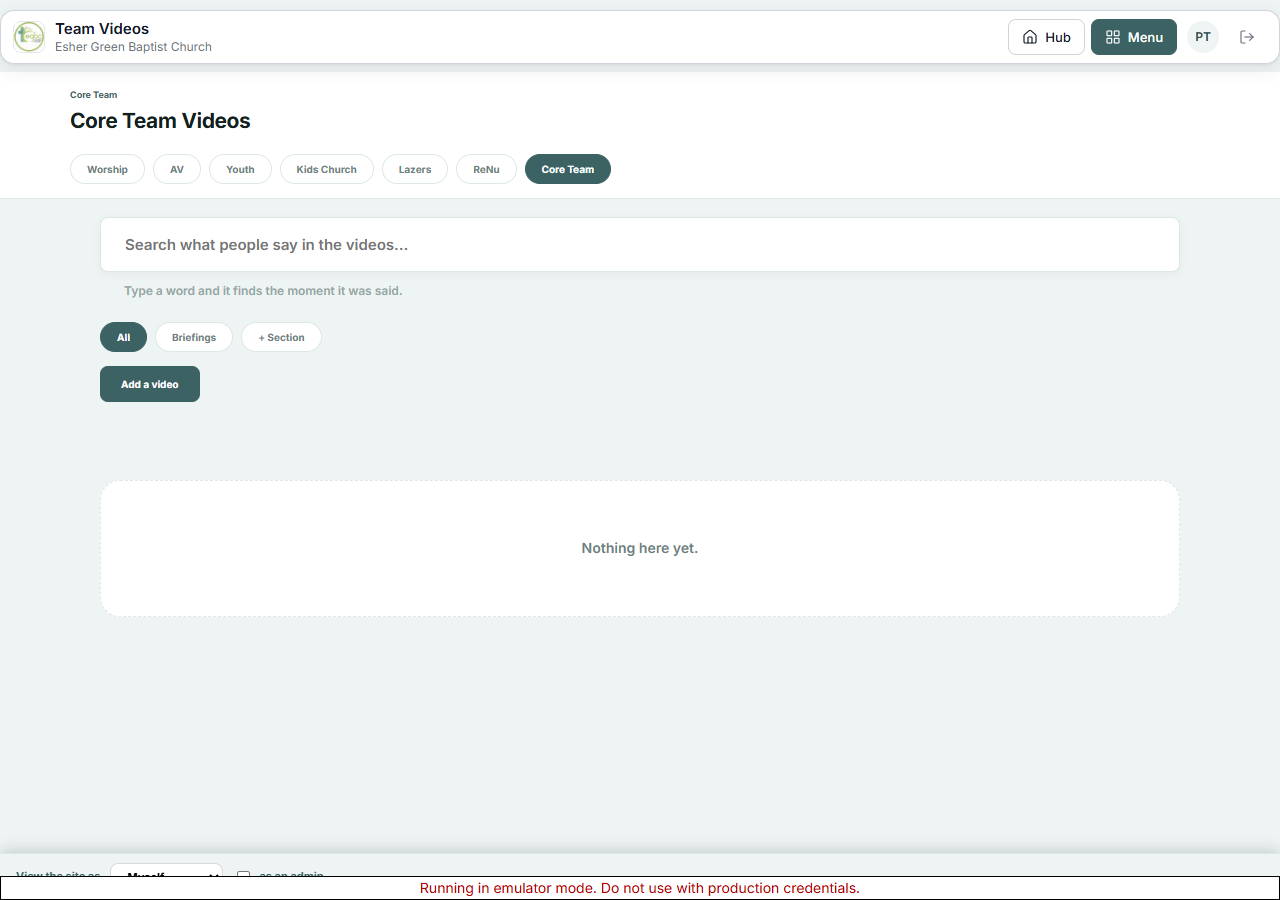
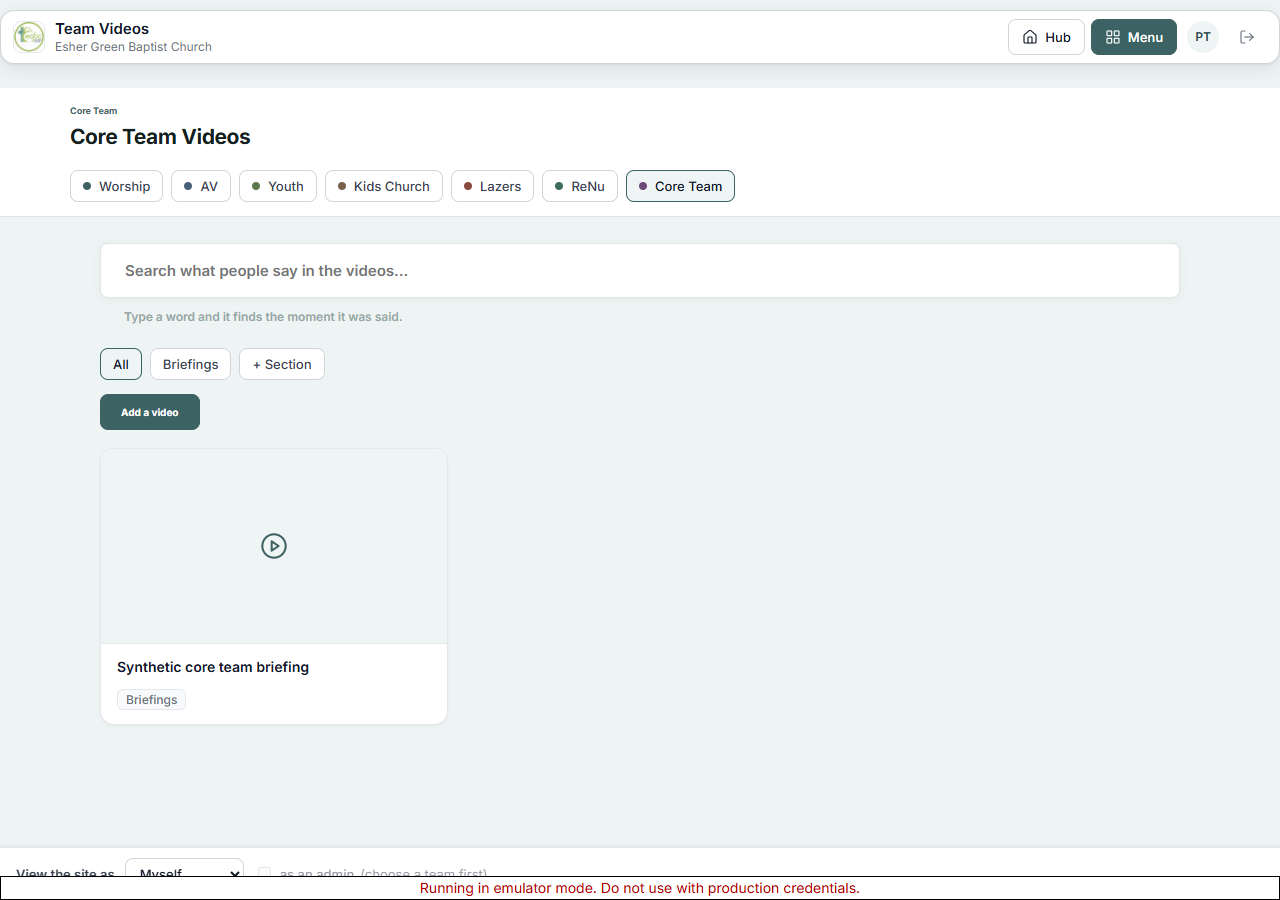
A2 (R-006): cards and lists to the card spec - three of the seven
resources.html, videos.html and addressbook.html rebuilt to DESIGN.md.
Four Group 1 pages still to do: view-only-rota, Planner,
SundayServicePlanner and CoreTeamApp. A2 is NOT finished.

Cards (resources, videos): white, 1px #e5e7eb, 14px radius, the small
shadow; a 36px tinted icon badge, the name at 14px/600 in ink, one muted
line, a divider, then the actions - a bordered button, ghost text buttons,
delete in the danger colour. The lift-on-hover and the 800-weight titles
went: a card should be quiet until you are over it, and 800 is not in the
type scale.

Lists (addressbook): the row is a 36px initials box, the name at 14px/600 in
ink, the email as the one muted line, and the quiet #f3f4f6 hover. It is a
table of people rather than a grid, which is right for that page - the spec
applies to the row, not the container.

Emoji out while in there: the file-type icons in resources became Lucide
names, and the play glyph in a video thumbnail became circle-play. The video
team tabs lost their solid team-colour fill for the brand tint and an 8px
dot, the same as the resources tabs.

Nothing lost: resources still saves a link, address book still adds and
edits a person, videos still adds a video, and Planner and CoreTeamApp still
save an assignment - all read back from Firestore, 3/3 and 3/3.

Two seeding traps worth knowing, both mine and both the same shape as the
one in Step V: Firestore orderBy skips documents that lack the field, so
[…]

diff --git a/v2/videos.html b/v2/videos.html
@@ -46,10 +46,17 @@
 
   /* ---- team strip ---- */
   .teams{display:flex;gap:8px;padding:0 0 14px;flex-wrap:wrap}
-  .tchip{font-size:10px;font-weight:900;letter-spacing:.08em;text-transform:uppercase;padding:8px 16px;
-         border-radius:999px;border:1px solid var(--line);background:var(--surface);color:var(--muted);
-         cursor:pointer;font-family:inherit;transition:.12s}
-  .tchip.on{background:var(--brand);color:#fff;border-color:var(--brand)}
+  /* A tab is a control, not a label shouting at you: 13px, sentence case,
+     8px corners. Selected is the brand tint with ink text - a solid team
+     colour across a tab is the loudest thing on the page and says nothing
+     the dot beside the name does not. */
+  .tchip{display:inline-flex;align-items:center;gap:8px;height:32px;padding:0 12px;
+         font-size:13px;font-weight:500;letter-spacing:0;text-transform:none;
+         border-radius:8px;border:1px solid #d1d5db;background:#fff;color:#374151;
+         cursor:pointer;font-family:inherit;transition:background .12s,border-color .12s}
+  .tchip:hover{background:#f3f4f6}
+  .tchip.on{background:#eef5f4;color:#111827;border-color:#3d6263}
+  .tchip .dot{width:8px;height:8px;border-radius:9999px;flex:none}
 
   /* ---- search ---- */
   .search{margin:26px 0 22px}
@@ -61,18 +68,23 @@
 
   /* ---- grid ---- */
   .grid{display:grid;grid-template-columns:repeat(auto-fill,minmax(270px,1fr));gap:18px;padding-bottom:60px}
-  .card{background:var(--surface);border:1px solid var(--line);border-radius:var(--r-lg);overflow:hidden;
-        cursor:pointer;transition:.12s;display:flex;flex-direction:column;text-align:left;
-        font-family:inherit;padding:0;color:inherit}
-  .card:hover{border-color:var(--brand);box-shadow:var(--sh-lg);transform:translateY(-2px)}
-  .card:focus-visible{outline:2px solid var(--brand);outline-offset:2px}
-  .thumb{aspect-ratio:16/9;background:var(--surface-2);display:flex;align-items:center;justify-content:center;
-         font-size:32px;color:var(--faint);border-bottom:1px solid var(--line)}
-  .cbody{padding:16px 18px;display:flex;flex-direction:column;gap:7px;flex:1}
-  .cbody .t{font-size:14.5px;font-weight:800;color:var(--ink);line-height:1.35;letter-spacing:-.01em}
-  .cmeta{display:flex;gap:7px;align-items:center;flex-wrap:wrap;margin-top:auto;padding-top:4px}
-  .pill{font-size:8.5px;font-weight:900;letter-spacing:.1em;text-transform:uppercase;padding:3px 9px;
-        border-radius:999px;border:1px solid var(--line);color:var(--muted);background:var(--surface-2)}
+  /* DESIGN.md: white card, 1px line, 14px radius, the small shadow. The
+     lift-on-hover and the heavy title went - a card is quiet until you are
+     over it, and 800 weight is not in the type scale. */
+  .card{background:#fff;border:1px solid #e5e7eb;border-radius:14px;overflow:hidden;
+        cursor:pointer;transition:background .12s,border-color .12s;display:flex;flex-direction:column;
+        text-align:left;font-family:inherit;padding:0;color:inherit;box-shadow:0 1px 2px rgba(16,24,40,.05)}
+  .card:hover{background:#f9fafb;border-color:#d1d5db}
+  .card:focus-visible{outline:none;box-shadow:0 0 0 3px rgba(61,98,99,.15)}
+  .thumb{aspect-ratio:16/9;background:#eef5f4;display:flex;align-items:center;justify-content:center;
+         color:#3d6263;border-bottom:1px solid #e5e7eb}
+  .thumb svg{width:28px;height:28px}
+  .cbody{padding:14px 16px;display:flex;flex-direction:column;gap:4px;flex:1}
+  .cbody .t{font-size:14px;font-weight:600;color:#111827;line-height:1.35;letter-spacing:0}
+  .cmeta{display:flex;gap:6px;align-items:center;flex-wrap:wrap;margin-top:auto;padding-top:8px}
+  /* Sentence case, readable size, square corners - not shouty capsules. */
+  .pill{font-size:12px;font-weight:500;letter-spacing:0;text-transform:none;padding:2px 8px;
+        border-radius:6px;border:1px solid #e5e7eb;color:#6b7280;background:#f9fafb}
   .pill.work{background:#f7efdd;border-color:#e3cfa4;color:#8a5f1c}
   .pill.off{background:#f9e9e6;border-color:#eccbc4;color:var(--danger)}
 
@@ -363,7 +375,9 @@ function renderTeamStrip(teams){
   const el = document.getElementById('teamStrip');
   if (teams.length < 2){ el.classList.add('hidden'); return; }
   el.innerHTML = teams.map(t =>
-    `<button class="tchip${t === TEAM ? ' on' : ''}" onclick="switchTeam('${esc(t)}')">${esc((EGBCAuth.TEAMS[t] || {}).label || t)}</button>`
+    `<button class="tchip${t === TEAM ? ' on' : ''}" onclick="switchTeam('${esc(t)}')">` +
+    `<span class="dot" style="background:${(EGBCAuth.TEAMS[t] || {}).colour || '#3d6263'}"></span>` +
+    `${esc((EGBCAuth.TEAMS[t] || {}).label || t)}</button>`
   ).join('');
 }
 
@@ -602,7 +616,7 @@ function render(){
     if (hit) pills.push('<span class="pill">Says it at ' + fmtTime(hit.t) + '</span>');
 
     return `<button class="card" onclick="openVideo('${v.id}')">
-      <div class="thumb">&#9654;</div>
+      <div class="thumb"><i data-lucide="circle-play"></i></div>
       <div class="cbody">
         <div class="t">${esc(v.title || 'Untitled')}</div>
         ${hit ? `<div style="font-size:12.5px;color:var(--muted)">&ldquo;${esc(hit.text.slice(0, 90))}&hellip;&rdquo;</div>` : ''}

diff --git a/v2/resources.html b/v2/resources.html
@@ -221,36 +221,49 @@ function render(){
 
   list.innerHTML=items.map(i=>{
     const editable=canAdd(i.team);
-    return `<div class="res-card bg-white border border-[#dde7e6] rounded-[1.25rem] p-5">
-      <div class="flex items-start gap-3 mb-3">
-        <span class="text-2xl flex-shrink-0">${iconFor(i)}</span>
-        <div class="flex-grow min-w-0">
-          <a href="${esc(i.url)}" target="_blank" rel="noopener" class="font-black text-sm leading-snug hover:underline block">${hl(esc(i.title),q)}</a>
-          <div class="text-[10px] opacity-45 mt-1">${i.folder?esc(i.folder)+' · ':''}${i.kind==='link'?'Link':fmtSize(i.size)}${i.minRole&&i.minRole!=='member'?' · '+esc(i.minRole)+'+':''}</div>
+    /* DESIGN.md card: 1px line, 14px radius, the small shadow; a 36px
+       tinted badge, the name at 14px/600, one muted line under it, and the
+       actions on the right. */
+    return `<div class="res-card" style="background:#fff;border:1px solid #e5e7eb;border-radius:14px;
+      box-shadow:0 1px 2px rgba(16,24,40,.05);padding:14px 16px">
+      <div style="display:flex;align-items:flex-start;gap:12px">
+        <span style="width:36px;height:36px;border-radius:8px;background:#eef5f4;color:#3d6263;
+          display:flex;align-items:center;justify-content:center;flex:none">
+          <i data-lucide="${iconFor(i)}" style="width:18px;height:18px"></i></span>
+        <div style="flex:1;min-width:0">
+          <a href="${esc(i.url)}" target="_blank" rel="noopener"
+             style="display:block;font-size:14px;font-weight:600;color:#111827;line-height:1.35;text-decoration:none">
+             ${hl(esc(i.title),q)}</a>
+          <div style="font-size:13px;color:#6b7280;margin-top:2px">${i.folder?esc(i.folder)+' · ':''}${i.kind==='link'?'Link':fmtSize(i.size)}${i.minRole&&i.minRole!=='member'?' · '+esc(i.minRole)+'+':''}</div>
+          ${i.description?`<p style="font-size:13px;color:#374151;line-height:1.5;margin:8px 0 0">${hl(esc(i.description),q)}</p>`:''}
         </div>
       </div>
-      ${i.description?`<p class="text-[12px] opacity-60 leading-relaxed mb-3">${hl(esc(i.description),q)}</p>`:''}
-      <div class="flex gap-2 items-center flex-wrap">
-        <a href="${esc(i.url)}" target="_blank" rel="noopener" class="bg-[#f0f6f6] border border-[#dde7e6] px-4 py-1.5 rounded-full font-black text-[10px] uppercase tracking-widest hover:bg-[#3d6263] hover:text-white transition-all">${i.kind==='link'?'Open':'Download'}</a>
-        ${editable?`<button onclick="renameItem('${i.id}')" class="text-[10px] font-black uppercase tracking-widest opacity-40 hover:opacity-100 px-2 transition-opacity">Rename</button>
-        <button onclick="removeItem('${i.id}')" class="text-[10px] font-black uppercase tracking-widest text-red-400 hover:text-red-600 px-2 transition-colors ml-auto">Delete</button>`:''}
+      <div style="display:flex;gap:8px;align-items:center;flex-wrap:wrap;margin-top:12px;padding-top:12px;border-top:1px solid #e5e7eb">
+        <a href="${esc(i.url)}" target="_blank" rel="noopener"
+           style="display:inline-flex;align-items:center;height:32px;padding:0 12px;border-radius:8px;
+           border:1px solid #d1d5db;background:#fff;color:#111827;font-size:13px;font-weight:500;text-decoration:none">
+           ${i.kind==='link'?'Open':'Download'}</a>
+        ${editable?`<button onclick="renameItem('${i.id}')" style="height:32px;padding:0 10px;border:none;background:none;color:#6b7280;font-size:13px;font-weight:500;cursor:pointer">Rename</button>
+        <button onclick="removeItem('${i.id}')" style="height:32px;padding:0 10px;border:none;background:none;color:#b42318;font-size:13px;font-weight:500;cursor:pointer;margin-left:auto">Delete</button>`:''}
       </div>
     </div>`;
   }).join('');
 }
 
+/* Lucide names, not emoji - DESIGN.md. Drawn by egbc-ui.js, which redraws
+   whatever arrives later through innerHTML. */
 function iconFor(i){
-  if(i.kind==='link')return'🔗';
+  if(i.kind==='link')return'link';
   const n=(i.fileName||'').toLowerCase();
-  if(/\.pdf$/.test(n))return'📕';
-  if(/\.(docx?|odt)$/.test(n))return'📘';
-  if(/\.(xlsx?|csv|ods)$/.test(n))return'📗';
-  if(/\.(pptx?|odp)$/.test(n))return'📙';
-  if(/\.(png|jpe?g|gif|webp|svg)$/.test(n))return'🖼';
-  if(/\.(mp4|mov|webm|avi)$/.test(n))return'🎬';
-  if(/\.(mp3|wav|m4a|aac)$/.test(n))return'🎵';
-  if(/\.(zip|rar|7z)$/.test(n))return'🗜';
-  return'📄';
+  if(/\.pdf$/.test(n))return'file-text';
+  if(/\.(docx?|odt)$/.test(n))return'file-type';
+  if(/\.(xlsx?|csv|ods)$/.test(n))return'sheet';
+  if(/\.(pptx?|odp)$/.test(n))return'presentation';
+  if(/\.(png|jpe?g|gif|webp|svg)$/.test(n))return'image';
+  if(/\.(mp4|mov|webm|avi)$/.test(n))return'clapperboard';
+  if(/\.(mp3|wav|m4a|aac)$/.test(n))return'music';
+  if(/\.(zip|rar|7z)$/.test(n))return'folder-archive';
+  return'file';
 }
 
 function fmtSize(b){

diff --git a/v2/addressbook.html b/v2/addressbook.html
@@ -112,10 +112,17 @@
                 }
 
                 const row = `
-                    <tr class="border-b border-[#d1dfdf] hover:bg-[#f0f6f6] transition-colors text-sm">
+                    <tr style="border-bottom:1px solid #e5e7eb" onmouseover="this.style.background='#f3f4f6'" onmouseout="this.style.background=''">
                         <td class="p-4">
-                            <div class="font-bold text-[#3d6263]">${escapeHtml(member.name)}</div>
-                            <div class="text-[11px] text-[#3d6263] font-bold opacity-70">${member.email ? escapeHtml(member.email) : '—'}</div>
+                          <div style="display:flex;align-items:center;gap:12px">
+                            <span style="width:36px;height:36px;border-radius:8px;background:#eef5f4;color:#3d6263;
+                              display:flex;align-items:center;justify-content:center;flex:none;font-size:12px;font-weight:600">
+                              ${escapeHtml((member.name||'?').split(/\s+/).map(w=>w[0]||'').join('').slice(0,2).toUpperCase())}</span>
+                            <div style="min-width:0">
+                              <div style="font-size:14px;font-weight:600;color:#111827">${escapeHtml(member.name)}</div>
+                              <div style="font-size:13px;color:#6b7280">${member.email ? escapeHtml(member.email) : '—'}</div>
+                            </div>
+                          </div>
                         </td>
                         <td class="p-4 text-xs font-bold text-gray-500">${escapeHtml(householdDisplay)}</td>
                         <td class="p-4">
